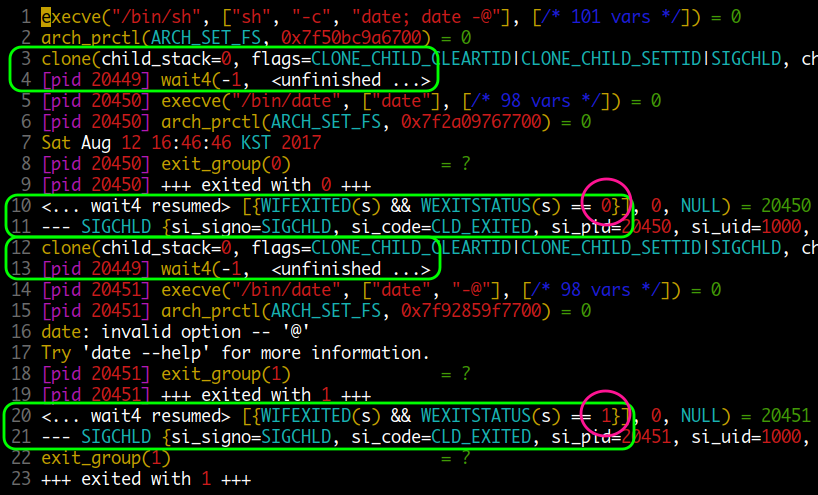
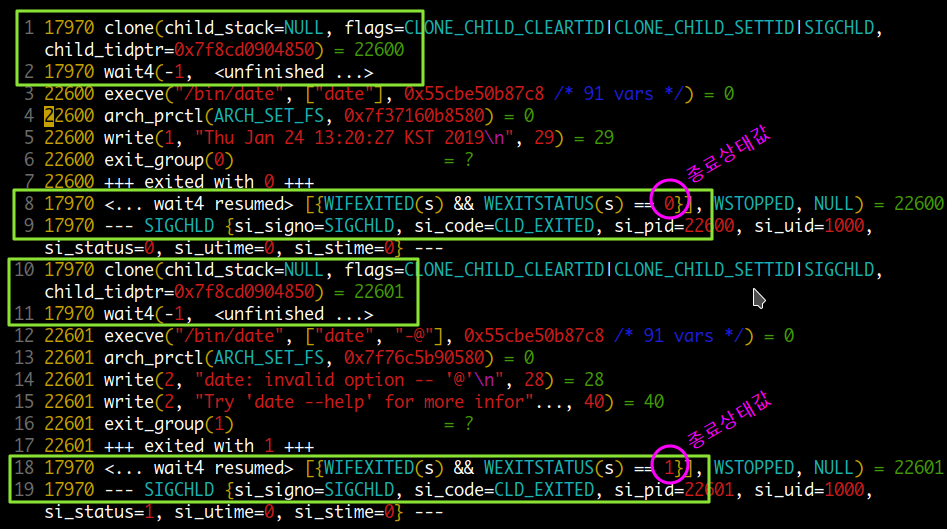
update

diff --git a/supplement.html b/supplement.html
@@ -1242,13 +1242,15 @@
 <ul>
 <li><p>Subshell</p>
 </li>
-<li><p>Child process</p>
+<li><p>Child Process</p>
+</li>
+<li><p>Background Process</p>
 </li>
 <li><p>&#xBA85;&#xB839;&#xC5D0; &#xC120;&#xD589;&#xD558;&#xB294; &#xB300;&#xC785; &#xC5F0;&#xC0B0;</p>
 </li>
 <li><p><code>bash</code> &#xC640; <code>sh</code> &#xC5D0;&#xC11C;&#xC758; INT signal handler &#xAC00; &#xCC98;&#xB9AC;&#xB418;&#xB294; &#xBC29;&#xC2DD;&#xC758; &#xCC28;&#xC774;&#xC810;</p>
 </li>
-<li><p>zombie &#xD504;&#xB85C;&#xC138;&#xC2A4;&#xAC00; wait &#xC2DC;&#xC2A4;&#xD15C;&#xCF5C; &#xD568;&#xC218;&#xC5D0; &#xC758;&#xD574; &#xD504;&#xB85C;&#xC138;&#xC2A4; &#xD14C;&#xC774;&#xBE14;&#xC5D0;&#xC11C; &#xC815;&#xB9AC;&#xB418;&#xB294; &#xACFC;&#xC815;</p>
+<li><p>Zombie &#xD504;&#xB85C;&#xC138;&#xC2A4;&#xAC00; wait &#xC2DC;&#xC2A4;&#xD15C;&#xCF5C; &#xD568;&#xC218;&#xC5D0; &#xC758;&#xD574; &#xD504;&#xB85C;&#xC138;&#xC2A4; &#xD14C;&#xC774;&#xBE14;&#xC5D0;&#xC11C; &#xC815;&#xB9AC;&#xB418;&#xB294; &#xACFC;&#xC815;</p>
 </li>
 <li><p>Thread</p>
 </li>
@@ -1460,7 +1462,7 @@ kernel.yama.ptrace_scope = <span class="hljs-number">0</span>
 </code></pre>
 <p>bash &#xC758; &#xACBD;&#xC6B0; system call &#xC774; &#xB9CE;&#xC774; &#xBC1C;&#xC0DD;&#xD574; &#xBCF5;&#xC7A1;&#xD558;&#xBBC0;&#xB85C; sh &#xC744; &#xC774;&#xC6A9;&#xD574; trace &#xD558;&#xACA0;&#xC2B5;&#xB2C8;&#xB2E4;.
 strace &#xB294; <code>-e</code> &#xC635;&#xC158;&#xC744; &#xD1B5;&#xD574; &#xD2B9;&#xC815; system call &#xD568;&#xC218;&#xB9CC; &#xC9C0;&#xC815;&#xD560; &#xC218;&#xAC00; &#xC788;&#xC2B5;&#xB2C8;&#xB2E4;.
-&#xB610;&#xD55C; %file, %process, %network, %signal, %ipc, %desc, %memory &#xAC19;&#xC740; &#xADF8;&#xB8F9;&#xC744; &#xC0AC;&#xC6A9;&#xD560; &#xC218;&#xB3C4; &#xC788;&#xC2B5;&#xB2C8;&#xB2E4;.
+&#xB610;&#xD55C; %file, %process, %network, %signal, %ipc, %memory &#xAC19;&#xC740; &#xADF8;&#xB8F9;&#xC744; &#xC0AC;&#xC6A9;&#xD560; &#xC218;&#xB3C4; &#xC788;&#xC2B5;&#xB2C8;&#xB2E4;.
 2 &#xAC1C;&#xC758; &#xD130;&#xBBF8;&#xB110;&#xC744; &#xC900;&#xBE44;&#xD55C; &#xD6C4; &#xCCAB; &#xBC88;&#xC9F8; &#xD130;&#xBBF8;&#xB110;&#xC5D0;&#xC11C; /bin/sh &#xBA85;&#xB839;&#xC744; &#xC2E4;&#xD589;&#xD574; sh &#xD504;&#xB86C;&#xD504;&#xD2B8;&#xB85C; &#xB4E4;&#xC5B4;&#xAC11;&#xB2C8;&#xB2E4;.</p>
 <p>1 . terminal 1 &#xC5D0;&#xC11C; sh &#xC744; &#xC2E4;&#xD589;&#xD55C; &#xD6C4; pid &#xB97C; &#xD655;&#xC778;&#xD569;&#xB2C8;&#xB2E4;.</p>
 <pre><code class="lang-bash">sh$ <span class="hljs-built_in">echo</span> $$
@@ -1489,19 +1491,56 @@ sh$ ( date; date; date )
 &#xBE68;&#xAC04;&#xC0C9; &#xBC15;&#xC2A4;&#xB85C; &#xD45C;&#xC2DC;&#xB41C; &#xBD80;&#xBD84;&#xC744; &#xBCF4;&#xBA74; clone &#xD568;&#xC218;&#xAC00; &#xC5F0;&#xC774;&#xC5B4; &#xB450; &#xBC88; &#xC2E4;&#xD589;&#xB418;&#xB294; &#xAC83;&#xC744; &#xBCFC; &#xC218; &#xC788;&#xC2B5;&#xB2C8;&#xB2E4;.
 &#xC5EC;&#xAE30;&#xC11C; &#xCCAB; &#xBC88;&#xC9F8; clone &#xC774; subshell &#xC5D0; &#xD574;&#xB2F9;&#xD558;&#xB294; &#xBD80;&#xBD84;&#xC785;&#xB2C8;&#xB2E4;.
 &#xADF8;&#xB9AC;&#xACE0; &#xB9C8;&#xC9C0;&#xB9C9; &#xBA85;&#xB839;&#xC740; clone &#xC5C6;&#xC774; &#xBC14;&#xB85C; exec &#xD558;&#xB294; &#xAC78; &#xBCFC; &#xC218; &#xC788;&#xB294;&#xB370; &#xC774;&#xAC83;&#xC740; subshell&apos;s clone &#xC774; &#xB0A8;&#xC544;&#xC788;&#xAE30; &#xB54C;&#xBB38;&#xC785;&#xB2C8;&#xB2E4;.</p>
-<h3 id="child-process">Child process</h3>
+<h3 id="child-process">Child Process</h3>
 <p>child process &#xAC00; &#xC0DD;&#xC131;&#xB420; &#xB54C; subshell &#xC758; &#xACBD;&#xC6B0;&#xB294; fork &#xACFC;&#xC815;&#xB9CC; &#xAC70;&#xCE58;&#xC9C0;&#xB9CC; &#xBA85;&#xB839; &#xC2E4;&#xD589;&#xC758; &#xACBD;&#xC6B0;&#xB294; fork-exec &#xACFC;&#xC815;&#xC744; &#xAC70;&#xCE69;&#xB2C8;&#xB2E4;.
-&#xC774;&#xB54C; parent process &#xB294; wait &#xD568;&#xC218;&#xB97C; &#xC2E4;&#xD589;&#xD558;&#xC5EC; child &#xAC00; &#xC885;&#xB8CC;&#xB420; &#xB54C;&#xAE4C;&#xC9C0;
+&#xC774;&#xB54C; parent process &#xB294; wait &#xD568;&#xC218;&#xB97C; &#xC2E4;&#xD589;&#xD558;&#xC5EC; child process &#xAC00; &#xC885;&#xB8CC;&#xB420; &#xB54C;&#xAE4C;&#xC9C0;
 &#xAE30;&#xB2E4;&#xB9AC;&#xB294;&#xB370;&#xC694;. &#xC544;&#xB798; &#xADF8;&#xB9BC;&#xC5D0;&#xC11C; &#xB179;&#xC0C9; &#xBC15;&#xC2A4; &#xBD80;&#xBD84;&#xC774; parent process &#xC5D0; &#xD574;&#xB2F9;&#xB429;&#xB2C8;&#xB2E4;.
-child &#xAC00; &#xC2E4;&#xD589;&#xC744; &#xB9C8;&#xCE58;&#xACE0; &#xC885;&#xB8CC;&#xD558;&#xAC8C; &#xB418;&#xBA74; parent &#xC758; wait &#xD568;&#xC218;&#xAC00; resume &#xB418;&#xBA74;&#xC11C;
-child &#xC758; PCB &#xC5D0; &#xC124;&#xC815;&#xB418;&#xC5B4; &#xC788;&#xB294; &#xC885;&#xB8CC; &#xC0C1;&#xD0DC; &#xAC12;&#xC744; &#xAC00;&#xC838;&#xC624;&#xAC8C; &#xB429;&#xB2C8;&#xB2E4;.
-&#xB9CC;&#xC57D;&#xC5D0; &#xC774; &#xACFC;&#xC815;&#xC774; &#xCC98;&#xB9AC;&#xB418;&#xC9C0; &#xC54A;&#xC73C;&#xBA74; child &#xB294; &#xC880;&#xBE44; &#xC0C1;&#xD0DC;&#xB85C; &#xACC4;&#xC18D; &#xD504;&#xB85C;&#xC138;&#xC2A4; &#xD14C;&#xC774;&#xBE14;&#xC5D0; &#xB0A8;&#xC544;&#xC788;&#xAC8C; &#xB429;&#xB2C8;&#xB2E4;.</p>
+child process &#xAC00; &#xC2E4;&#xD589;&#xC744; &#xB9C8;&#xCE58;&#xACE0; &#xC885;&#xB8CC;&#xD558;&#xAC8C; &#xB418;&#xBA74; parent &#xC758; wait &#xD568;&#xC218;&#xAC00; resume &#xB418;&#xBA74;&#xC11C;
+child process &#xC758; PCB &#xC5D0; &#xC124;&#xC815;&#xB418;&#xC5B4; &#xC788;&#xB294; &#xC885;&#xB8CC; &#xC0C1;&#xD0DC; &#xAC12;&#xC744; &#xAC00;&#xC838;&#xC624;&#xAC8C; &#xB429;&#xB2C8;&#xB2E4;.
+&#xB9CC;&#xC57D;&#xC5D0; &#xC774; &#xACFC;&#xC815;&#xC774; &#xCC98;&#xB9AC;&#xB418;&#xC9C0; &#xC54A;&#xC73C;&#xBA74; child process &#xB294; &#xC880;&#xBE44; &#xC0C1;&#xD0DC;&#xB85C; &#xACC4;&#xC18D; &#xD504;&#xB85C;&#xC138;&#xC2A4; &#xD14C;&#xC774;&#xBE14;&#xC5D0; &#xB0A8;&#xC544;&#xC788;&#xAC8C; &#xB429;&#xB2C8;&#xB2E4;.</p>
 <p>child process &#xC758; &#xC0C1;&#xD0DC;&#xAC00; &#xBCC0;&#xACBD;&#xB418;&#xC5B4; parent process &#xC5D0; SIGCHLD &#xC2E0;&#xD638;&#xAC00; &#xC804;&#xB2EC;&#xB418;&#xB294; &#xAC83;&#xB3C4; &#xBCFC; &#xC218; &#xC788;&#xB294;&#xB370;
 parent &#xC5D0;&#xC11C; SIGCHLD trap handler &#xB97C; &#xC124;&#xC815;&#xD558;&#xC600;&#xB2E4;&#xBA74; &#xC2E4;&#xD589;&#xB420; &#xAC83;&#xC785;&#xB2C8;&#xB2E4;.</p>
-<pre><code class="lang-bash"><span class="hljs-comment"># &apos;date -@&apos; &#xC740; &#xC624;&#xB958;&#xB97C; &#xC704;&#xD55C; &#xBA85;&#xB839; &#xC2E4;&#xD589;</span>
-$ strace -qf <span class="hljs-operator">-e</span> %process sh -c <span class="hljs-string">&apos;date; date -@&apos;</span>  |&amp; vi -
+<pre><code class="lang-bash"><span class="hljs-comment"># terminal 2</span>
+$ strace -o child.strace <span class="hljs-operator">-e</span> %process,write <span class="hljs-operator">-f</span> -p <span class="hljs-number">1234</span>
+
+<span class="hljs-comment"># terminal 1</span>
+$ date; date -@    <span class="hljs-comment"># -@ &#xB294; &#xC624;&#xB958;&#xB97C; &#xC704;&#xD55C; &#xC635;&#xC158;</span>
 </code></pre>
 <p><img src="images/strace/strace-child-process.png" alt=""></p>
+<h3 id="background-process">Background Process</h3>
+<p><code>&amp;</code> &#xBB38;&#xC790;&#xB97C; &#xC774;&#xC6A9;&#xD574; background &#xB85C; child process &#xB97C; &#xC2E4;&#xD589;&#xD558;&#xBA74; parent &#xB294;
+child process &#xAC00; &#xC885;&#xB8CC;&#xB420; &#xB54C;&#xAE4C;&#xC9C0; &#xAE30;&#xB2E4;&#xB9AC;&#xC9C0; &#xC54A;&#xACE0; &#xBC14;&#xB85C; &#xB2E4;&#xC74C; &#xC791;&#xC5C5;&#xC744; &#xC9C4;&#xD589;&#xD560; &#xC218; &#xC788;&#xC2B5;&#xB2C8;&#xB2E4;.</p>
+<p>&#xBA3C;&#xC800; wait &#xD568;&#xC218;&#xC5D0; &#xB300;&#xD574; &#xC54C;&#xC544;&#xBCFC; &#xD544;&#xC694;&#xAC00; &#xC788;&#xB294;&#xB370;&#xC694;</p>
+<blockquote>
+<p>waitpid ( pid, wstatus, options );</p>
+</blockquote>
+<p>pid &#xB294; &#xAE30;&#xB2E4;&#xB9B4; child pid &#xB97C; &#xB9D0;&#xD558;&#xB294;&#xB370; &#xC774;&#xAC12;&#xC774; <code>-1</code> &#xBA74; any child process &#xAC00; &#xB429;&#xB2C8;&#xB2E4;.
+wstatus &#xC5D0;&#xB294; &#xD568;&#xC218; &#xC2E4;&#xD589; &#xACB0;&#xACFC;&#xB85C; child process &#xC758; &#xC885;&#xB8CC; &#xC0C1;&#xD0DC; &#xAC12;&#xC774; &#xC5EC;&#xAE30;&#xC5D0; &#xC800;&#xC7A5;&#xB429;&#xB2C8;&#xB2E4;.</p>
+<pre><code class="lang-bash"><span class="hljs-comment"># terminal 2</span>
+$ strace -o background.strace <span class="hljs-operator">-e</span> %process,write <span class="hljs-operator">-f</span> -p <span class="hljs-number">1234</span>
+
+<span class="hljs-comment"># terminal 1</span>
+$ date &amp;
+</code></pre>
+<p><img src="images/strace/strace-background-process.png" alt=""></p>
+<p>&#xBA3C;&#xC800; &#xBE44;&#xAD50;&#xB97C; &#xC704;&#xD574; &#xC55E;&#xC120; child process &#xC758; &#xACBD;&#xC6B0;&#xB97C; &#xBCF4;&#xBA74;</p>
+<ul>
+<li>2&#xBC88; &#xB77C;&#xC778;: <code>wait4(-1, &lt;unfinished ...&gt;</code>  &#xC5D0;&#xC11C; parent process &#xAC00; block &#xB410;&#xB2E4;&#xAC00; </li>
+<li>child process &#xAC00; &#xC885;&#xB8CC;&#xB41C; &#xD6C4;&#xC5D0;</li>
+<li>8&#xBC88; &#xB77C;&#xC778;: <code>&lt;... wait4 resumed&gt;</code> &#xC5D0;&#xC11C; &#xC2E4;&#xD589;&#xC774; &#xC7AC;&#xAC1C;&#xB418;&#xBA74;&#xC11C;</li>
+<li>9&#xBC88; &#xB77C;&#xC778;: &#xC5D0;&#xC11C; <code>SIGCHLD</code> &#xC2E0;&#xD638;&#xAC00; &#xC804;&#xB2EC;&#xB418;&#xB294;&#xB370;&#xC694;</li>
+</ul>
+<p>Background process &#xC758; &#xACBD;&#xC6B0;&#xB97C; &#xBCF4;&#xBA74; </p>
+<ul>
+<li>2&#xBC88; &#xB77C;&#xC778;: &#xC5D0;&#xC11C; wait &#xD568;&#xC218; &#xC2E4;&#xD589;&#xC774; &#xC644;&#xB8CC;&#xB418;&#xACE0;</li>
+<li>3&#xBC88; &#xB77C;&#xC778;: &#xC5D0;&#xC11C; &#xC774;&#xC5B4;&#xC11C; write &#xD568;&#xC218;&#xB97C; &#xC2E4;&#xD589;&#xD558;&#xB294; &#xAC83;&#xC744; &#xBCFC; &#xC218; &#xC788;&#xC2B5;&#xB2C8;&#xB2E4;.
+&#xC774;&#xAC83;&#xC740; &#xB2E4;&#xC2DC; &#xB9D0;&#xD574;&#xC11C; prarent process &#xAC00; wait &#xD568;&#xC218;&#xC5D0; &#xC758;&#xD574; block &#xB418;&#xC9C0; &#xC54A;&#xB294;&#xB2E4;&#xB294; &#xC758;&#xBBF8;&#xC778;&#xB370;&#xC694;</li>
+</ul>
+<p>wait &#xD568;&#xC218; &#xC2E4;&#xD589;&#xC2DC; &#xCD94;&#xAC00;&#xB41C; <code>WNOHANG</code> &#xC635;&#xC158;&#xC740; &#xC885;&#xB8CC;&#xB41C; child process &#xAC00; &#xC5C6;&#xC744; &#xACBD;&#xC6B0;
+&#xBC14;&#xB85C; return &#xB418;&#xAC8C; &#xD569;&#xB2C8;&#xB2E4;.</p>
+<p>&#xC774;&#xD6C4; child process &#xAC00; &#xC885;&#xB8CC;&#xB418;&#xC5B4; <code>SIGCHLD</code> &#xC2E0;&#xD638;&#xAC00; prarent process &#xC5D0; &#xC804;&#xB2EC;&#xB418;&#xACE0;
+&#xB9C8;&#xC9C0;&#xB9C9;&#xC73C;&#xB85C; &#xC885;&#xB8CC; &#xC0C1;&#xD0DC; &#xAC12;&#xC744; &#xAC00;&#xC838;&#xC624;&#xAE30; &#xC704;&#xD574; wait &#xD568;&#xC218;&#xAC00; &#xC2E4;&#xD589;&#xB418;&#xB294; &#xAC83;&#xC744; &#xBCFC; &#xC218; &#xC788;&#xC2B5;&#xB2C8;&#xB2E4;.
+( SIGCHLD &#xC2E0;&#xD638; &#xC804;&#xB2EC;&#xB418;&#xB294; &#xC21C;&#xC11C;&#xAC00; &#xD2C0;&#xB9AC;&#xC8E0; )</p>
 <h3 id="&#xBA85;&#xB839;&#xC5D0;-&#xC120;&#xD589;&#xD558;&#xB294;-&#xB300;&#xC785;&#xC5F0;&#xC0B0;">&#xBA85;&#xB839;&#xC5D0; &#xC120;&#xD589;&#xD558;&#xB294; &#xB300;&#xC785;&#xC5F0;&#xC0B0;</h3>
 <blockquote>
 <p>$ AAA=100 BBB=200 CCC=300 date</p>
